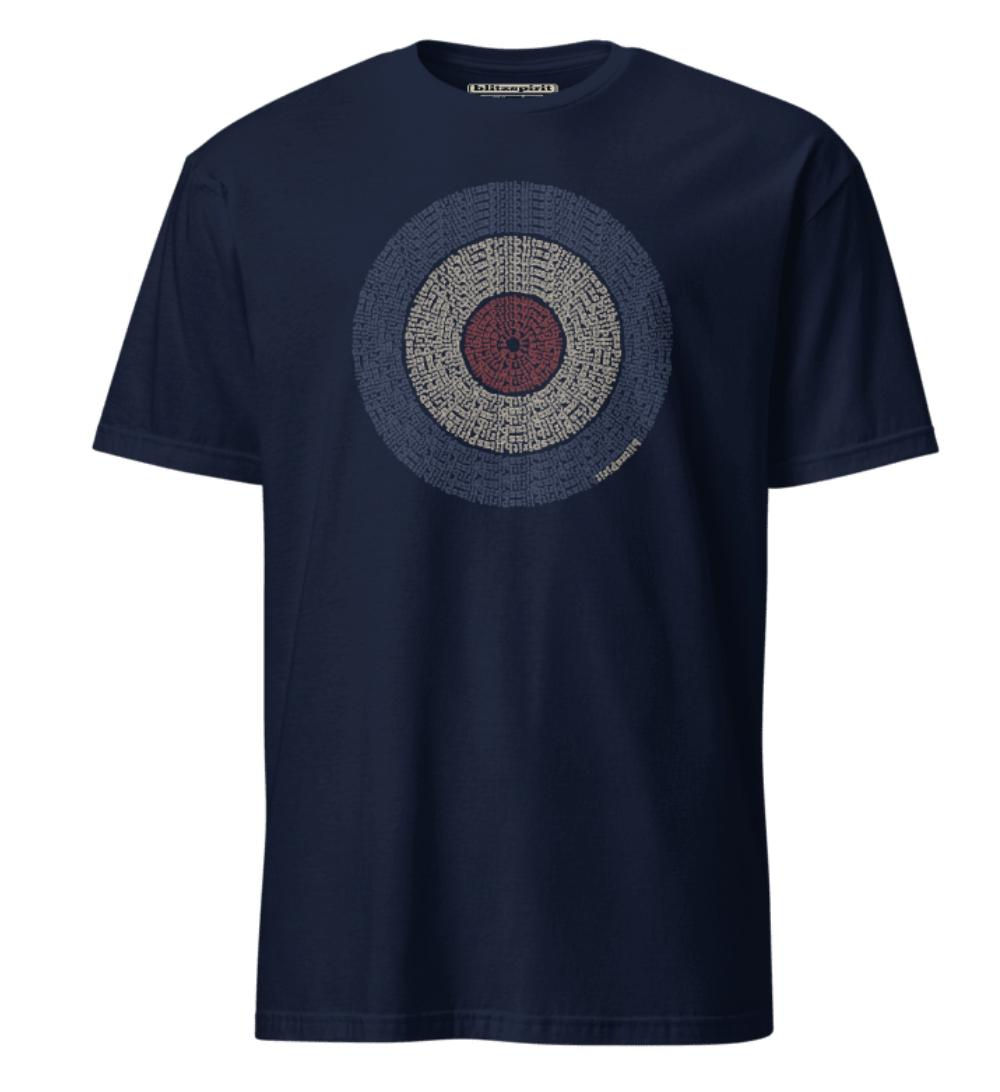
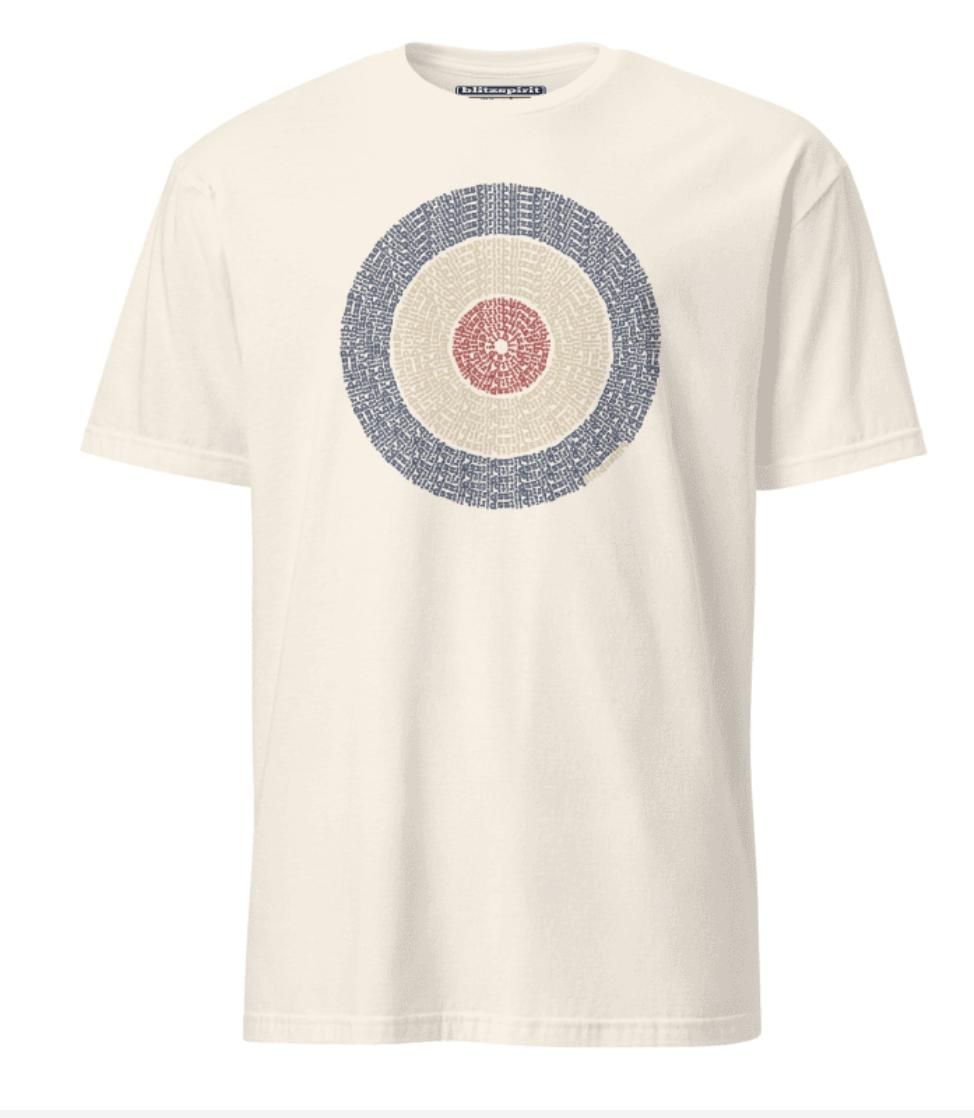
Cards: VIEW plus ADD TO CART with a size picker; unswap the Frequency photos
- Product cards carry two controls again. [ ADD TO CART ] never adds by
  itself: it opens a size picker on the card, and the tap on a size adds
  that size (card-pick.js). The picker is a <product-form>, so variant
  resolution, sold-out sizes and the colour photo swap are the product
  page's own logic, and cart.js still does the adding.
- In that picker a colour is offered when any size of it is in stock
  (data-colour-any-size), since no size is chosen up front.
- "BUY NOW" is "ADD TO CART" everywhere: the button adds to the bag, it
  does not go to checkout.
- The Frequency's two photos were stored under each other's file names, so
  choosing off-white showed the navy shirt. Swapped back, with the image
  dimensions in the catalogue to match.
- check-build.mjs asserts the card contract: no fixed variant id, no
  preselected size, picker hidden, one visible photo matching the variant.

diff --git a/standalone/src/scripts/card-pick.js b/standalone/src/scripts/card-pick.js
@@ -1,0 +1,95 @@
+/* ============================================================
+   card-pick.js — the size picker behind a product card's [ ADD TO CART ]
+
+   Contract (ProductCard.astro):
+   - [data-card-pick] opens and closes the <product-form class="coll-pick">
+     its aria-controls names, and keeps its own aria-expanded in step. Only
+     one picker is open at a time; a click anywhere outside the open picker
+     and its button closes it.
+   - A tap on a size pill inside that picker is the add. By the time this
+     document-level handler runs, product-form.js (which listens on the pill
+     group, nearer the target) has already written the matching variant id
+     into the picker's hidden input. This then presses the picker's hidden
+     [data-add-to-cart], which cart.js handles like any other add button, so
+     the bag logic lives in one place.
+   - A colour pill only changes the selection (and the card photo); it never
+     adds. Escape closes an open picker and returns focus to its button.
+   ============================================================ */
+(function () {
+  'use strict';
+
+  function toggleFor(panel) {
+    return document.querySelector('[data-card-pick][aria-controls="' + panel.id + '"]');
+  }
+
+  function setOpen(panel, open) {
+    panel.hidden = !open;
+    var toggle = toggleFor(panel);
+    if (toggle) toggle.setAttribute('aria-expanded', String(open));
+    if (!open) {
+      // Leave no size looking chosen: the next open starts from a clean slate.
+      panel.querySelectorAll('.size-pill[aria-pressed="true"]').forEach(function (pill) {
+        pill.setAttribute('aria-pressed', 'false');
+      });
+    }
+  }
+
+  function closeAll(except) {
+    document.querySelectorAll('.coll-pick:not([hidden])').forEach(function (panel) {
+      if (panel !== except) setOpen(panel, false);
+    });
+  }
+
+  document.addEventListener('click', function (event) {
+    var target = event.target instanceof Element ? event.target : null;
+    if (!target) return;
+
+    var toggle = target.closest('[data-card-pick]');
+    if (toggle) {
+      var panel = document.getElementById(toggle.getAttribute('aria-controls'));
+      if (!panel) return;
+      var open = panel.hidden;
+      closeAll(panel);
+      setOpen(panel, open);
+      if (open) {
+        var first = panel.querySelector('.size-pill:not([disabled])');
+        if (first) first.focus();
+      }
+      return;
+    }
+
+    var picker = target.closest('.coll-pick');
+    if (!picker) {
+      // Not the hidden add button's own synthetic click (it is inside a picker),
+      // so this is a click elsewhere on the page.
+      closeAll(null);
+      return;
+    }
+
+    var pill = target.closest('.size-pill');
+    if (!pill || pill.disabled) return;
+    var add = picker.querySelector('[data-add-to-cart]');
+    if (!add || add.disabled) return;
+
+    // Focus goes back to the card's button BEFORE the add: hiding the picker
+    // would otherwise drop it to <body>, and cart.js remembers whatever has
+    // focus when the drawer opens as the place to return to when it closes.
+    var owner = toggleFor(picker);
+    if (owner) owner.focus();
+    add.click();
+    setOpen(picker, false);
+  });
+
+  document.addEventListener('keydown', function (event) {
+    if (event.key !== 'Escape') return;
+    var target = event.target instanceof Element ? event.target : null;
+    if (!target) return;
+    var picker = target.closest('.coll-pick');
+    var toggle = target.closest('[data-card-pick]');
+    if (!picker && toggle) picker = document.getElementById(toggle.getAttribute('aria-controls'));
+    if (!picker || picker.hidden) return;
+    setOpen(picker, false);
+    var owner = toggleFor(picker);
+    if (owner) owner.focus();
+  });
+})();

diff --git a/standalone/src/styles/theme.css b/standalone/src/styles/theme.css
@@ -500,8 +500,10 @@ a { color:inherit; text-decoration:none; }
 .coll-plate { display:block; background:var(--plate); height:300px; overflow:hidden; position:relative; flex-shrink:0; }
 .coll-plate img { width:100%; height:100%; object-fit:contain; transition:.3s ease; }
 .coll-card:hover .coll-plate img { transform:scale(1.03); }
-.coll-plate .coll-img--hover { position:absolute; inset:0; opacity:0; }
-.coll-card:hover .coll-plate .coll-img--hover { opacity:1; }
+/* One photo per colourway; product-form.js shows the one for the colour picked
+   in the card's size picker by toggling [hidden]. (`img { display:block }` in
+   the reset would otherwise beat the UA's [hidden] rule.) */
+.coll-card [hidden] { display:none !important; }
 .coll-badge { position:absolute; top:10px; left:0; background:var(--accent); color:#fff; font-size:10px; letter-spacing:.15em; text-transform:uppercase; font-family:var(--sans); padding:4px 10px; z-index:2; }
 .coll-issue { position:absolute; top:0; right:0; background:rgba(10,10,10,.82); color:var(--accent); font-family:var(--sans); font-size:10px; letter-spacing:.12em; text-transform:uppercase; padding:6px 10px; border-left:1px solid var(--line-bri); border-bottom:1px solid var(--line-bri); z-index:2; }
 .coll-info { background:var(--panel); padding:var(--s2) var(--s3) var(--s3); flex:1; display:flex; flex-direction:column; gap:8px; border-top:1px solid var(--line); }
@@ -517,7 +519,15 @@ a { color:inherit; text-decoration:none; }
 .coll-actions { display:flex; gap:8px; margin-top:auto; }
 .coll-cta { flex:1; display:flex; align-items:center; justify-content:center; min-height:44px; border:1px solid var(--ink); padding:7.6px var(--s2); font-size:11px; font-weight:700; letter-spacing:.15em; text-transform:uppercase; font-family:var(--sans); color:var(--ink); text-align:center; }
 .coll-cta:hover { background:var(--ink); border-color:var(--ink); color:var(--paper); }
-.coll-buy { flex:1; width:auto; display:flex; align-items:center; justify-content:center; min-height:44px; padding:7.6px var(--s2); font-size:11px; font-weight:700; letter-spacing:.15em; }
+/* Card size picker (ProductCard.astro, card-pick.js). */
+.coll-pick { display:flex; flex-direction:column; gap:var(--s1); border-top:1px solid var(--line); padding-top:var(--s2); }
+.coll-pick-hint { color:var(--bone-mute); }
+.coll-pick .cw { border:none; padding:0; margin:0; }
+.coll-pick .cw-label, .coll-pick .sizes-label { display:block; color:var(--bone-mute); font-size:10px; letter-spacing:.25em; margin-bottom:6px; }
+.coll-pick .sizes { margin:0; flex-direction:column; align-items:flex-start; gap:0; }
+.coll-pick .sizes-opts, .coll-pick .cw-opts { gap:8px; }
+.coll-pick .cw-opt .dot { display:none; }
+.coll-buy { flex:1.6; width:auto; display:flex; align-items:center; justify-content:center; min-height:44px; padding:7.6px var(--s2); font-size:11px; font-weight:700; letter-spacing:.15em; }
 
 /* ============================================================
    12. HOMEPAGE FRAMEWORK — hero / featured / promo / archive /

diff --git a/standalone/src/scripts/product-form.js b/standalone/src/scripts/product-form.js
@@ -265,14 +265,20 @@
 
     refreshOptionAvailability() {
       var self = this;
+      // data-colour-any-size (the product-card picker): a colour is offered when
+      // ANY size of it is in stock. There no size is chosen up front, so gating
+      // colours on the internal default size would grey one out for a reason the
+      // shopper cannot see. Sizes are still gated on the colour picked.
+      var looseColour = this.hasAttribute('data-colour-any-size');
       this.groups.forEach(function (group) {
         var index = (parseInt(group.getAttribute('data-option-index'), 10) || 1) - 1;
+        var loose = looseColour && group.classList.contains('cw');
         toArray(group.querySelectorAll('[data-value]')).forEach(function (btn) {
           var value = btn.getAttribute('data-value');
           var available = self.variants.some(function (variant) {
             var opts = variantOptions(variant);
             if (opts[index] !== value) return false;
-            for (var j = 0; j < self.selected.length; j++) {
+            for (var j = 0; !loose && j < self.selected.length; j++) {
               if (j !== index && opts[j] !== self.selected[j]) return false;
             }
             return variant.available;
